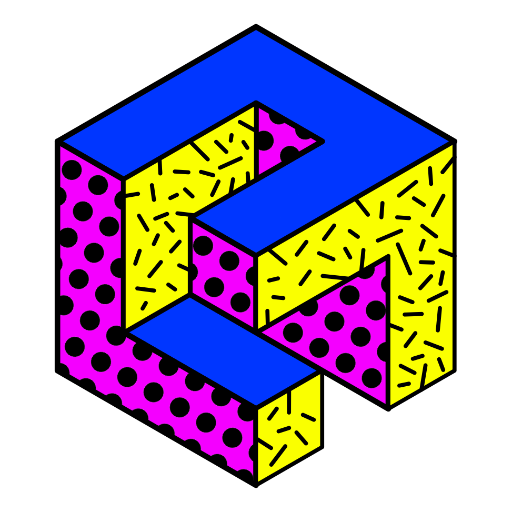
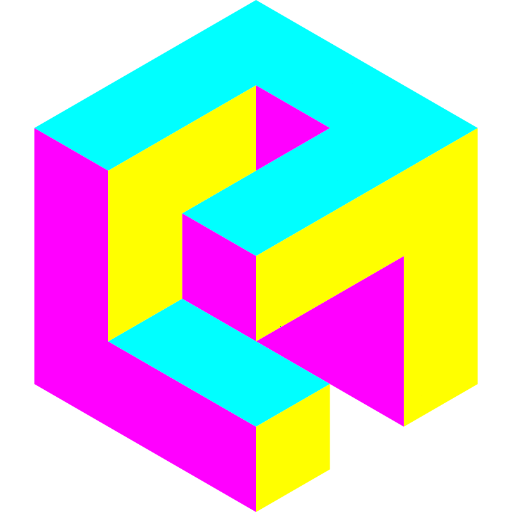
Blog Post .8
Updated logo and favicon
removed solbeth from footer
updated to-do page

diff --git a/blog/2025/07/10/so-that-was-a-lie/index.html b/blog/2025/07/10/so-that-was-a-lie/index.html
@@ -1,0 +1,63 @@
+<!DOCTYPE html>
+<html lang="en">
+<head>
+    <meta charset="UTF-8">
+    <meta name="viewport" content="width=device-width, initial-scale=1.0">
+    <title>Sergio's Mind Palace | .8 - So that was a lie....</title>
+    <link rel="alternate" type="application/rss+xml" title="Sergio's Mind Palace" href="/blog/feed.xml"/>
+    <link rel="apple-touch-icon" sizes="180x180" href="/apple-touch-icon.png">
+    <link rel="icon" type="image/png" sizes="32x32" href="/favicon-32x32.png">
+    <link rel="icon" type="image/png" sizes="16x16" href="/favicon-16x16.png">
+    <link rel="manifest" href="/site.webmanifest">
+    <link rel="stylesheet" href="/css/window.css">
+    <link rel="stylesheet" href="/css/single-layout.css">
+    <meta name="fediverse:creator" content="@SergioEduP@mastodon.online">
+    <style>
+        body {
+            image-rendering: pixelated;
+            min-height: 100%;
+            margin: 0;
+            padding: 0;
+            background-image: url("/images/png/bg.png");
+            background-repeat: no-repeat;
+            background-attachment: fixed;
+            background-size: cover;
+        }
+    </style>
+</head>
+<body>
+	<div class="main-container">
+        <div class="box-2">
+            <article>
+                <div class="blue-window window-borders innerbox main-window"> 
+                    <div class="blue-buttons window-buttons"> 
+                        <p class="title">.8 - So that was a lie....</p>
+                    </div>
+                    <div class="content"> 
+                        <p>
+                            <a href="/blog">Back to Index</a>
+                            <hr/>
+                        </p>
+                            <h1>.8 - So that was a lie....</h1>
+                            <h2>2025-07-10</h2>
+
+                            <p>So it has been a couple of months, last time I was writing here was March now it is July, a lot of stuff has happened in my life that I let get in the way of the things that make me happy, sure a lot of it was just unpredictable stuff that needed to be dealt with but I let those things pull me down into a rut. Instead of unpacking what has been going on I bottled everything up and tried to forget about them while moving forward.</p>
+                            <p>I fell right back down that ever calling sinkhole that is YouTube, how couldn't I? It was right there, a perfect way to dull my senses and emotions with no effort, a perfect escape from whatever has been going on in my mind for the last 3 months. I have tried to write this post 3 times already, and every one of them I couldn't get myself to even turn on my PC when I thought about writing this.</p>
+                            <p>Even though physically I've been doing things around the house that needed to be done, I'm not sure where I was mentally, I don't even remember 3 months going by.....</p>
+                            <p>First I got hit with Trans Day of Visibility shortly after the last post I made and the realization that "oh s*it I might not be cisgender or heterosexual". Sure I knew about the existence and general concepts behind a decent chunk of the LGBTQ+ community, but I had never looked into it because it had never really popped up into my life before, but this year since I was on Mastodon it was front and center, most of the posts I saw that day were related to that. So totally cis me thinking "what's this all about" decided to do some research to try and understand it, long story short after a couple of weeks reading articles and wiki pages, of watching videos by queer people sharing their experiences, relating to a scary amount of queer memes, and discovering the existence of <a href="https://genderdysphoria.fyi/">✦Gender Dysphoria✦</a> (and crying for a bit) which finally made me figure out that most "normal" people don't feel like I do about myself and my body I realized "oh I'm definitely not cis or straight".</p>
+                            <p>Even though I have not figured out what I am precisely, I have been presenting online as non-binary and (even though I am not out to friends or family) I have been slowly and carefully experimenting with my appearance and expression of myself to try and find what I am exactly, I could go on and on about that but I think that it is sufficient to say that after spending over half my life avoiding mirrors I am finally able to recognize myself and like the way I look, but there is still a lot of progress to be made on that.</p>
+                            <p>(This whole endeavour also made me realize why I loved "The Matrix" so much growing up without being able to explain why)</p>
+                            <p>Then a close family member got himself into hospital after a couple of falls, thankfully he is doing much better now, he is the most strong willed person I know and when he puts his mind on something he gets it done, and I know for a fact that he wants to get out of that hospital bed. And he will. I am sure of it.</p>
+                            <p>And then just as I was settling in to a new normal and getting myself back on track, out of nowhere my father asked for a divorce from my mother, which in itself wasn't a big issue (even if it was a bit shocking), it's just two grown adults going on with their lives their own ways, but it was very much a problem for me, you see I live in their house as well, I won't share any of the details here but thankfully, after a very stressful couple of weeks, that problem has been resolved.</p>
+                            <p>Those where the 3 main things that happened to me these last months (and that does not take into acount the general socio-economic state of the whole world right now, which by itself is already pretty stressing), and after each one of those things is when I tried to write this very post, and each time I realized that it takes quite a lot of effort to do so, effort that is fairly easy to push through when things are going according to plan but very hard when they are not, and it is simply not realistic to expect for everything to always work out well, therefore it is also not realistic to expect to be able to push one of this posts out every week like I wanted, or even every other week, so instead of doing that I will now focus on getting myself out of this hole that I dug and start working on some of the ideas I had before. And once I come up with something worth sharing I'll be back.</p>
+                            <p>This is the point on this post that I would like to leave some advice in case someone reading right now needs it, but I'm not sure what to make of all of this yet, so I'll just leave a quote by one of my favorite characters from one of my favorite games of all time:</p>
+                            <blockquote>When life gives you lemons, don't make lemonade. Make life take the lemons back! Get mad! I don't want your damn lemons, what the hell am I supposed to do with these? Demand to see life's manager! Make life rue the day it thought it could give Cave Johnson lemons! Do you know who I am? I'm the man who's gonna burn your house down! With the lemons! I'm gonna get my engineers to invent a combustible lemon that burns your house down!
+                            -Cave Johnson, in Portal 2
+                            </blockquote>
+                    </div>
+                </div> 
+            </article>
+        </div>
+	</div>
+</body>
+</html>

diff --git a/todo/index.html b/todo/index.html
@@ -55,7 +55,7 @@
                             <li><s>Footer Links</s></li>
                             <li><s>Blog</s></li>
                             <li><s>Custom buttons with icons on side menu</s></li>
-                            <li><s>Figure out a way to direct to individual blog posts</s> - Can now add "?b=" with a number to url to direct to each post</li>
+                            <li><s>Figure out a way to direct to individual blog posts - Can now add "?b=" with a number to url to direct to each post</s> [replaced entirely]</li>
                             <li><s>cool things and pages™ page</s> - replaced footer with this</li>
                             <li><s>JS warnig page</s></li>
                             <li><s>About page</s></li>

diff --git a/index.html b/index.html
@@ -208,11 +208,6 @@
                             </a>
                         </span>
                         <span class="flex-element">
-                            <a href="https://solbeth.neocities.org/" target="_top">
-                                <img class="badges" alt="Sol"  src="https://solbeth.neocities.org/home%20images/button.gif">
-                            </a>
-                        </span>
-                        <span class="flex-element">
                             <a href="https://beittel.net/" target="_top">
                                 <img class="badges" alt="Crazyroostereye"  src="https://beittel.net/stuff/Crazy31.gif">
                             </a>

diff --git a/about/index.html b/about/index.html
@@ -45,7 +45,7 @@
                     <hr/>
                     <article>
                         <h1>About</h1>
-                        <p>Hi, I'm Sérgio Pereira but usually go by SergioEduP or TheSergioEduP online.</p>
+                        <p>Hi, I'm Sérgio Pereira (He/They) but usually go by SergioEduP or TheSergioEduP online.</p>
                         <p>You can read my introduction on my blog post<a href="/blog/2024/12/26/hello-welcome-and-why">.1 - Hello, welcome and why?</a>, but here is a shorter version:</p>
                         <p>I'm a maker from Portugal born in 2001 who has collected a lot of hobbies over the years such as:</p>
                         <ul>

diff --git a/blog/index.html b/blog/index.html
@@ -49,6 +49,12 @@
                     </p>
                     <hr/>
                     <div class="post-listing">
+                        <span class="date">Thu, 10 Jul 2025</span><br/>
+                        <a href="/blog/2025/07/10/so-that-was-a-lie/" class="post-title">
+                            .8 - So that was a lie....
+                        </a>
+                    </div>
+                    <div class="post-listing">
                         <span class="date">Thu, 27 Mar 2025</span><br/>
                         <a href="/blog/2025/03/27/biting-off-more-than-one-can-chew/" class="post-title">
                             .7 - Biting off more than one can chew
